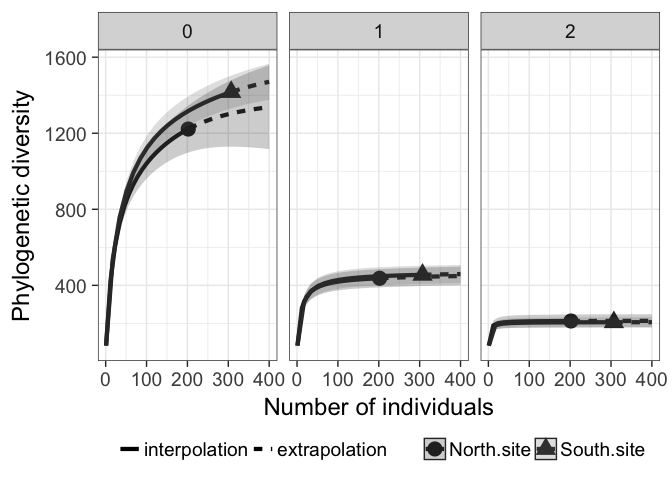
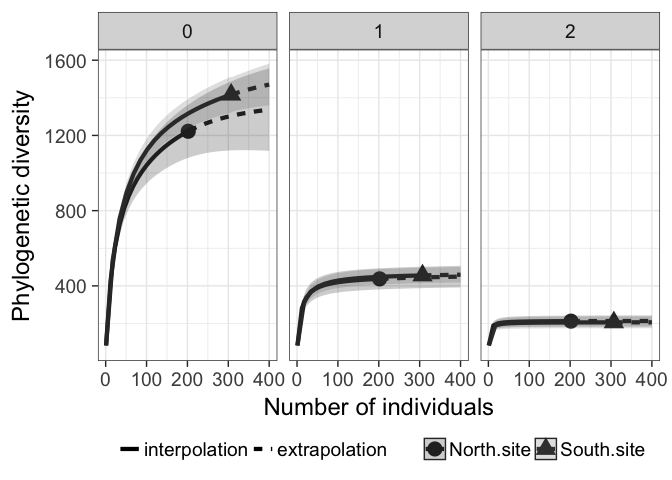
Fixes typos for introduction documents

diff --git a/README.md b/README.md
@@ -267,19 +267,19 @@ For example, the following command returns the species diversity with a specifie
 estimatePD(bird$abun, bird.lab, bird.phy, "abundance", 
            base="coverage", level=0.975, conf=0.95)
          site        m       method order    SC       qPD qPD.95.LCL
-1  North.site 227.0711 extrapolated     0 0.975 1248.1118  1128.1958
-3  North.site 227.0711 extrapolated     1 0.975  439.4657   389.0800
-5  North.site 227.0711 extrapolated     2 0.975  212.5806   181.2102
-8  South.site 247.8890 interpolated     0 0.975 1367.1348  1284.1023
-10 South.site 247.8890 interpolated     1 0.975  451.9783   404.1854
-12 South.site 247.8890 interpolated     2 0.975  205.6565   174.8883
+1  North.site 227.0711 extrapolated     0 0.975 1248.1118  1102.0086
+3  North.site 227.0711 extrapolated     1 0.975  439.4657   397.2367
+5  North.site 227.0711 extrapolated     2 0.975  212.5806   173.5876
+8  South.site 247.8890 interpolated     0 0.975 1367.1348  1289.6605
+10 South.site 247.8890 interpolated     1 0.975  451.9783   416.2718
+12 South.site 247.8890 interpolated     2 0.975  205.6565   175.3628
    qPD.95.UCL
-1   1368.0279
-3    489.8515
-5    243.9510
-8   1450.1674
-10   499.7713
-12   236.4247
+1   1394.2150
+3    481.6948
+5    251.5736
+8   1444.6092
+10   487.6849
+12   235.9502
 ```
 
 GRAPHIC DISPLAYS: FUNCTION `ggiNEXT()`
@@ -332,6 +332,7 @@ ggiNEXT(out, type=1, facet.var="site")
     else paste0(labels, : duplicated levels in factors are deprecated
 
 ![](README/README-unnamed-chunk-13-1.png)
+
 The argument `facet.var="order"` and `color.var="site"` creates a separate plot for each diversity order site, and within each plot, different colors are used for two sites.
 
 ``` r
@@ -393,6 +394,7 @@ else paste0(labels, : duplicated levels in factors are deprecated
 ```
 
 ![](README/README-unnamed-chunk-17-1.png)
+
 The argument `color.var = ("none", "order", "site" or "both")` is used to display curves in different colors for values of the specified variable. For example, the following code using the argument `color.var="site"` displays the sampling curves in different colors for the five sites. Note that `theme_bw()` is a ggplot2 function to modify display setting from grey background to black‐and‐white. The following commands return three types R/E sampling curves for ant data.
 
 ### Example for incidence data
@@ -723,19 +725,19 @@ In [`iNextPD`](https://cran.r-project.org/package=iNextPD), we provide a S3 `ggp
 df <- fortify(out, type=1)
 head(df)
    datatype plottype       site       method order  x       y   y.lwr
-1 abundance        1 North.site interpolated     0  1  82.858  76.347
-2 abundance        1 North.site interpolated     0 12 428.313 390.596
-3 abundance        1 North.site interpolated     0 23 607.781 562.461
-4 abundance        1 North.site interpolated     0 34 726.034 675.953
-5 abundance        1 North.site interpolated     0 45 811.060 755.381
-6 abundance        1 North.site interpolated     0 56 876.145 814.457
+1 abundance        1 North.site interpolated     0  1  82.858  77.014
+2 abundance        1 North.site interpolated     0 12 428.313 391.179
+3 abundance        1 North.site interpolated     0 23 607.781 562.309
+4 abundance        1 North.site interpolated     0 34 726.034 677.017
+5 abundance        1 North.site interpolated     0 45 811.060 758.499
+6 abundance        1 North.site interpolated     0 56 876.145 819.443
     y.upr
-1  89.368
-2 466.030
-3 653.102
-4 776.114
-5 866.739
-6 937.833
+1  88.701
+2 465.446
+3 653.253
+4 775.050
+5 863.621
+6 932.847
 
 df.point <- df[which(df$method=="observed"),]
 df.line <- df[which(df$method!="observed"),]
